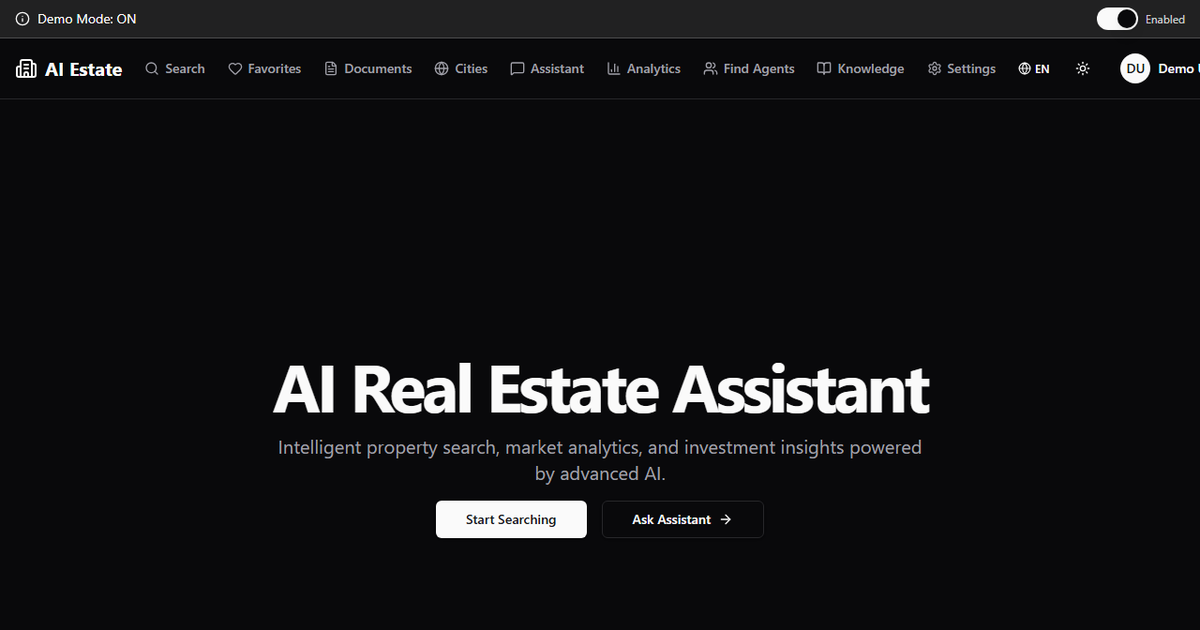
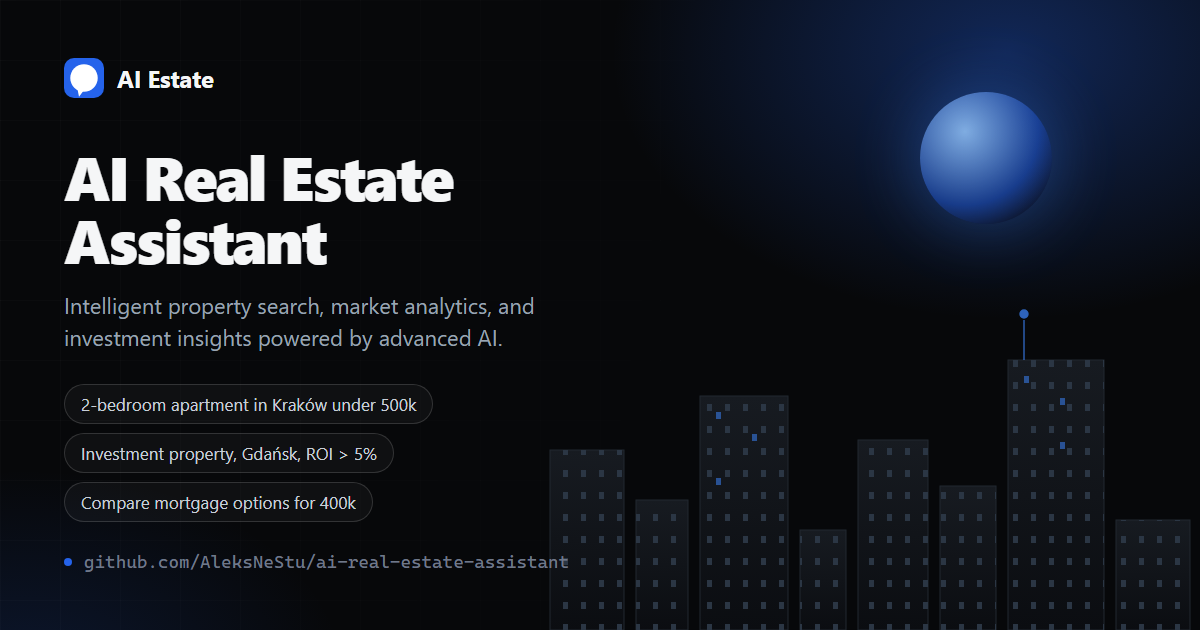
feat(web): keep an unready deployment out of the index and design the social card
The demo is not ready to be published, and an indexed half-finished page
is much harder to un-index than it is to keep out of the index. A
deployment can now say so at runtime: SEARCH_INDEXING=false makes every
page answer `X-Robots-Tag: noindex, nofollow`. The flag is read from the
runtime environment, so one image serves an indexable deployment and a
private one without a rebuild, and the default leaves the indexable
surface the repository ships untouched.

The 1200x630 social card was a cropped screenshot of the application. It
is now a card built from the product's own identity - its icon, its name,
its own tagline and its own example queries - with no claim the product
does not make.

Task #22
Task #27

diff --git a/apps/web/src/__tests__/indexing.test.ts b/apps/web/src/__tests__/indexing.test.ts
@@ -1,0 +1,69 @@
+/**
+ * The indexing guard.
+ *
+ * A deployment that is not ready to be published must be able to say so at
+ * RUNTIME, without a rebuild: `SEARCH_INDEXING=false` marks every response as
+ * `noindex, nofollow`. Unset - the default, and what the public repository
+ * ships - leaves the indexable surface untouched.
+ */
+
+import { applyIndexingGuard, isIndexingEnabled, ROBOTS_TAG_HEADER } from '@/lib/indexing';
+
+const ORIGINAL_ENV = process.env.SEARCH_INDEXING;
+
+function fakeHeaders(): { set: jest.Mock; get: (name: string) => string | undefined } {
+  const store = new Map<string, string>();
+  return {
+    set: jest.fn((name: string, value: string) => {
+      store.set(name, value);
+    }),
+    get: (name: string) => store.get(name),
+  };
+}
+
+describe('the indexing guard', () => {
+  afterEach(() => {
+    if (ORIGINAL_ENV === undefined) {
+      delete process.env.SEARCH_INDEXING;
+    } else {
+      process.env.SEARCH_INDEXING = ORIGINAL_ENV;
+    }
+  });
+
+  it('treats an unset flag as indexable', () => {
+    delete process.env.SEARCH_INDEXING;
+
+    expect(isIndexingEnabled()).toBe(true);
+  });
+
+  it('treats an explicit "true" as indexable', () => {
+    process.env.SEARCH_INDEXING = 'true';
+
+    expect(isIndexingEnabled()).toBe(true);
+  });
+
+  it('treats "false" as not indexable', () => {
+    process.env.SEARCH_INDEXING = 'false';
+
+    expect(isIndexingEnabled()).toBe(false);
+  });
+
+  it('leaves the response alone when indexing is enabled', () => {
+    delete process.env.SEARCH_INDEXING;
+    const headers = fakeHeaders();
+
+    applyIndexingGuard(headers);
+
+    expect(headers.set).not.toHaveBeenCalled();
+    expect(headers.get(ROBOTS_TAG_HEADER)).toBeUndefined();
+  });
+
+  it('marks the response as not indexable when indexing is switched off', () => {
+    process.env.SEARCH_INDEXING = 'false';
+    const headers = fakeHeaders();
+
+    applyIndexingGuard(headers);
+
+    expect(headers.get(ROBOTS_TAG_HEADER)).toBe('noindex, nofollow');
+  });
+});

diff --git a/apps/web/src/lib/indexing.ts b/apps/web/src/lib/indexing.ts
@@ -1,0 +1,31 @@
+/**
+ * The indexing guard.
+ *
+ * A deployment that is not ready to be published - an internal demo, a review
+ * build - must not be indexed. An indexed half-finished page is far harder to
+ * un-index than it is to keep out of the index, and the product here is still
+ * in that state.
+ *
+ * `SEARCH_INDEXING` is read from the RUNTIME environment, so one image serves
+ * an indexable deployment and a private one without a rebuild. Unset means
+ * "indexable" - the public repository keeps the SEO surface it ships.
+ */
+
+export const ROBOTS_TAG_HEADER = 'X-Robots-Tag';
+
+export function isIndexingEnabled(): boolean {
+  return process.env.SEARCH_INDEXING !== 'false';
+}
+
+/**
+ * Mark the response as not indexable when the deployment asked for it.
+ *
+ * The header is set on every page the proxy serves, so a crawler that reaches
+ * a page by a direct link (a share, a chat message) still learns that the
+ * page must not go into an index.
+ */
+export function applyIndexingGuard(headers: { set(name: string, value: string): void }): void {
+  if (!isIndexingEnabled()) {
+    headers.set(ROBOTS_TAG_HEADER, 'noindex, nofollow');
+  }
+}

diff --git a/apps/web/src/proxy.ts b/apps/web/src/proxy.ts
@@ -1,5 +1,6 @@
 import createMiddleware from 'next-intl/middleware';
 import { NextResponse, type NextRequest } from 'next/server';
+import { applyIndexingGuard } from '@/lib/indexing';
 import { routing } from './i18n/routing';
 
 const { locales: routingLocales, defaultLocale } = routing;
@@ -28,7 +29,7 @@ const { locales: routingLocales, defaultLocale } = routing;
 // Create the next-intl middleware
 const intlMiddleware = createMiddleware(routing);
 
-export async function proxy(request: NextRequest) {
+async function handleRequest(request: NextRequest) {
   const { pathname } = request.nextUrl;
 
   // Handle API routes separately (no i18n)
@@ -132,6 +133,18 @@ export async function proxy(request: NextRequest) {
 
   // Token exists, return the intl response (or continue)
   return intlResponse;
+}
+
+/**
+ * Indexing guard.
+ *
+ * A deployment that is not ready to be published must be able to say so at
+ * runtime, without a rebuild. See `src/lib/indexing.ts` for the rule.
+ */
+export async function proxy(request: NextRequest) {
+  const response = await handleRequest(request);
+  applyIndexingGuard(response.headers);
+  return response;
 }
 
 /**

diff --git a/CHANGELOG.md b/CHANGELOG.md
@@ -87,6 +87,11 @@ and this project adheres to [Semantic Versioning](https://semver.org/spec/v2.0.0
   other.
 - **A site-wide hreflang map** — nine locales plus an `x-default` pointer, kept
   in one place so a page-level canonical does not drop the language cluster.
+- **A runtime indexing switch** — `SEARCH_INDEXING=false` makes every page
+  answer `X-Robots-Tag: noindex, nofollow`. The flag is read from the runtime
+  environment, so one image serves an indexable deployment and a private one
+  without a rebuild, and the default leaves the indexable surface the
+  repository ships untouched. Covered by `src/__tests__/indexing.test.ts`.
 
 ### Changed
 - **The deployment topology left the public tree** — the platform blueprint and
@@ -100,6 +105,10 @@ and this project adheres to [Semantic Versioning](https://semver.org/spec/v2.0.0
   scripts that exist, the provider, commit and contributor counts are the real
   ones, the dead links are fixed, the security policy and the accepted-risk
   register carry current dates, and the OpenAPI snapshot was regenerated.
+- **The social-preview card is a designed card** — the 1200×630 image was a
+  cropped screenshot of the application. It is now a card built from the
+  product's own identity: its icon, its name, its own tagline and its own
+  example queries, with no claim the product does not make.
 
 ## [5.1.6] - 2026-11-06
 
